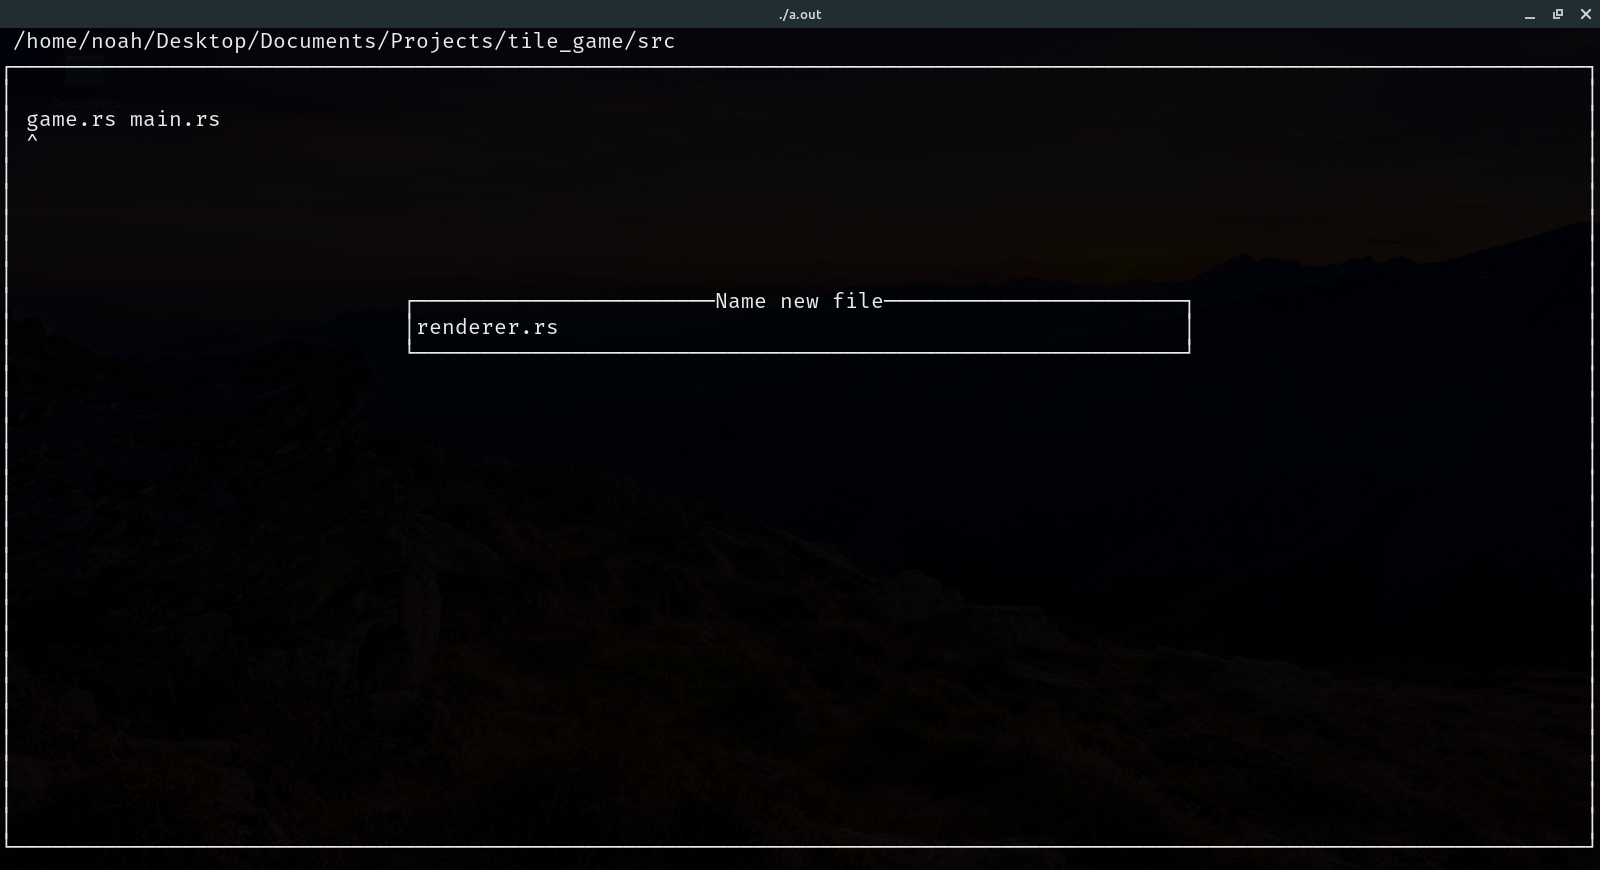
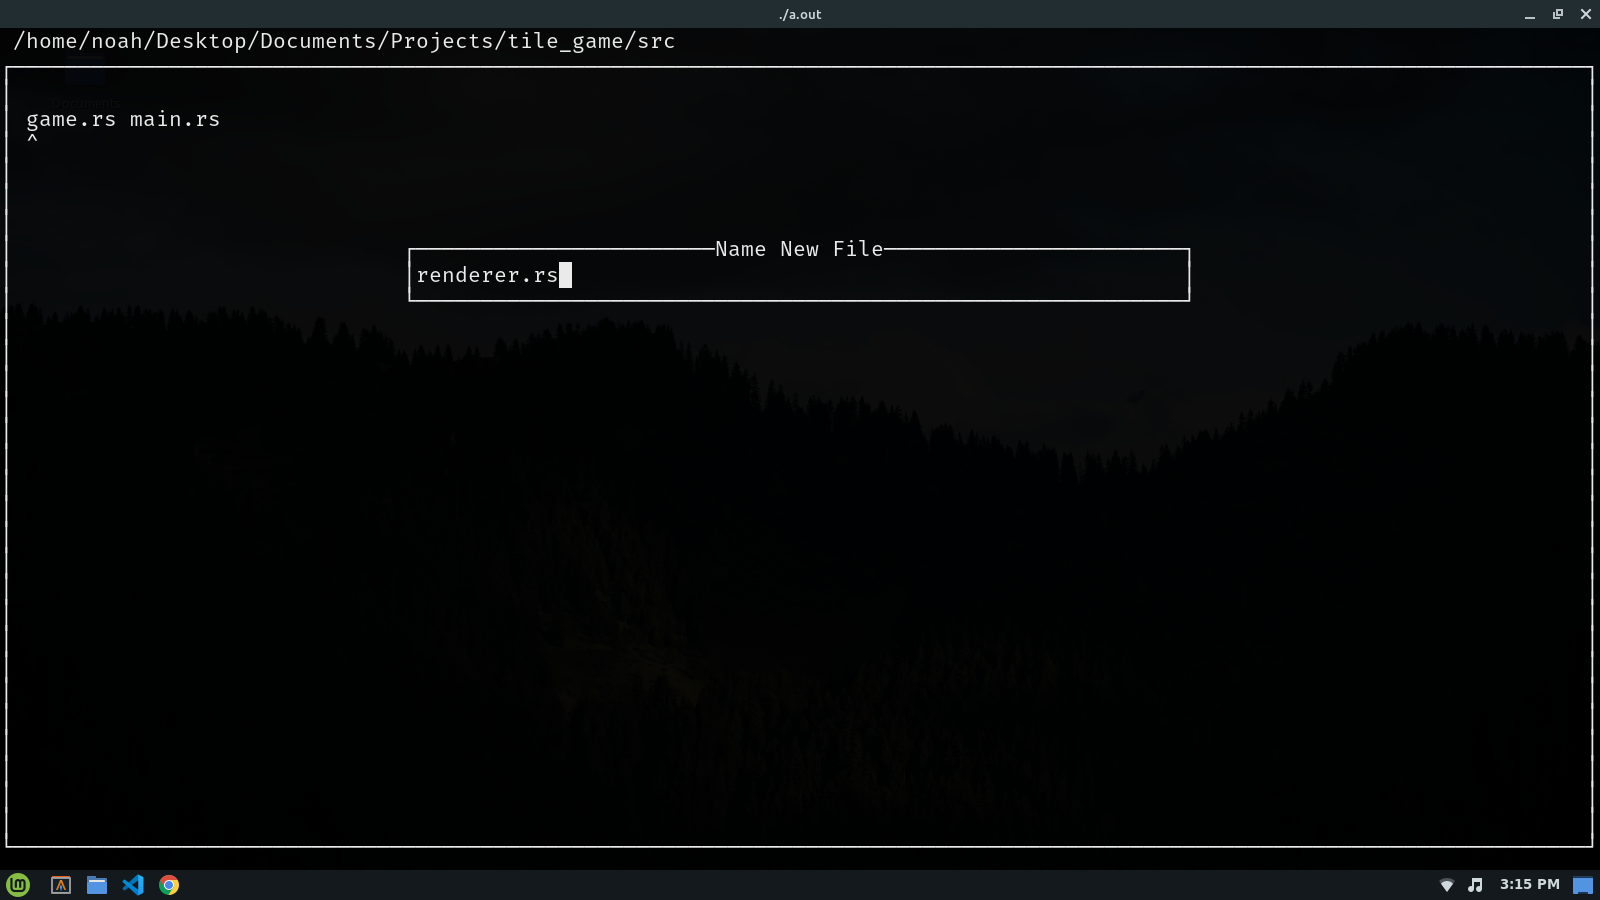
Small optimization added: only call wresize when the terminal dimensions actually change. Added new screenshot to show off the cursor in the new file box.

diff --git a/main.c b/main.c
@@ -204,6 +204,7 @@ void message_create_file(Context *context)
     memset(context->input_buffer.memory, 0, context->input_buffer.count);
     context->input_buffer.count = 0;
     context->state &= ~STATE_NEW_FILE;
+    delwin(context->new_file_box);
     curs_set(0);
     message_update_entries(context);
 }
@@ -283,6 +284,10 @@ void handle_input_for_listing(Context *context)
         break;
 
         case 'n':
+        context->new_file_box = newwin(3,
+               context->width / 2,
+               context->height / 4,
+               (context->width / 2) - (context->width / 4));
         context->state |= STATE_NEW_FILE;
         curs_set(1);
         break;
@@ -349,9 +354,14 @@ void draw_listing(Context *context)
         break;
     }
 
-    context->width = getmaxx(stdscr);
-    context->height = getmaxy(stdscr);
-    wresize(context->left, context->height - 1, context->width);
+    int new_width = getmaxx(stdscr);
+    int new_height = getmaxy(stdscr);
+    if (context->width != new_width || context->height != new_height)
+    {
+        context->width = new_width;
+        context->height = new_height;
+        wresize(context->left, context->height - 1, context->width);
+    }
 
     clear_windows_that_need_it(context);
 
@@ -466,10 +476,7 @@ int main(void)
     context.state = STATE_LISTING;
     context.message = MESSAGE_UPDATE_ENTRIES;
     context.entries = array_new();
-    context.new_file_box = newwin(3,
-                                  context.width / 2,
-                                  context.height / 4,
-                                  (context.width / 2) - (context.width / 4));
+    context.new_file_box = NULL;
     context.keep_running = true;
     while(context.keep_running)
     {
